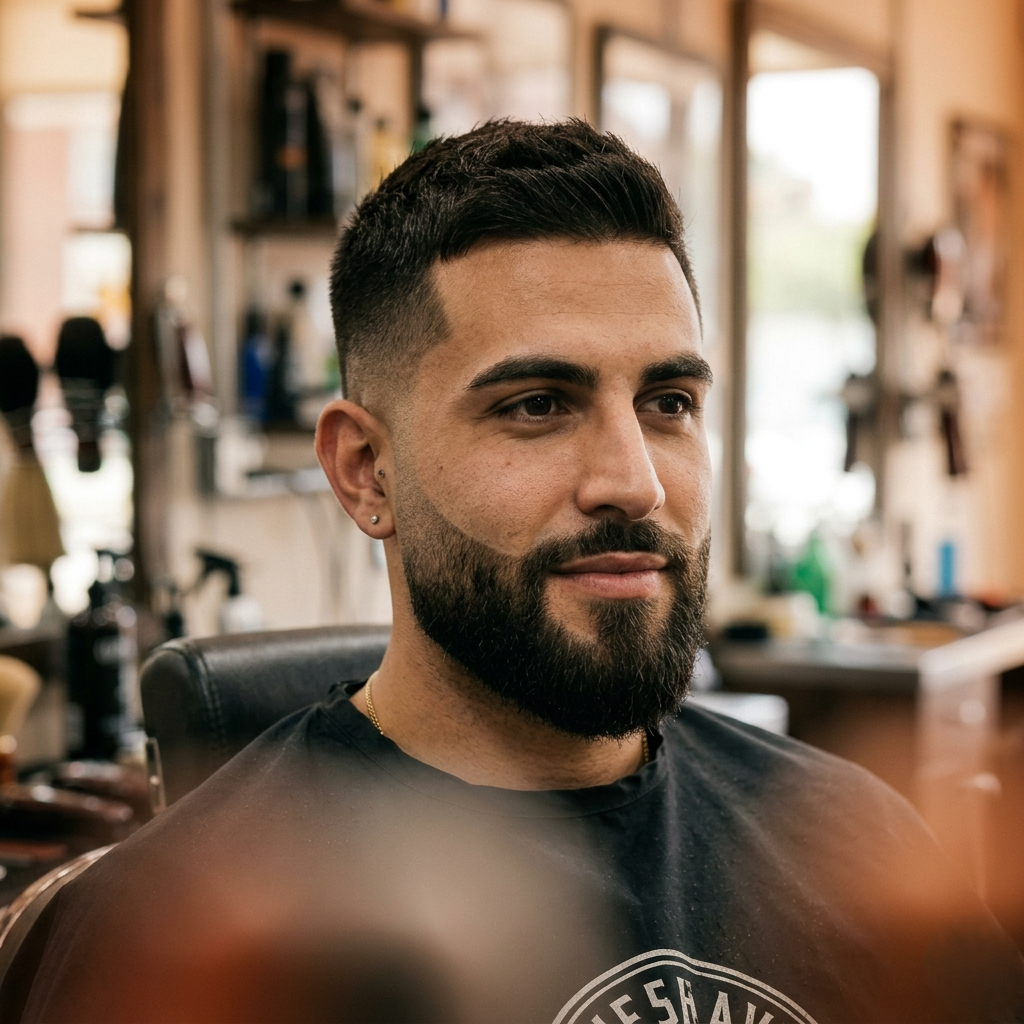
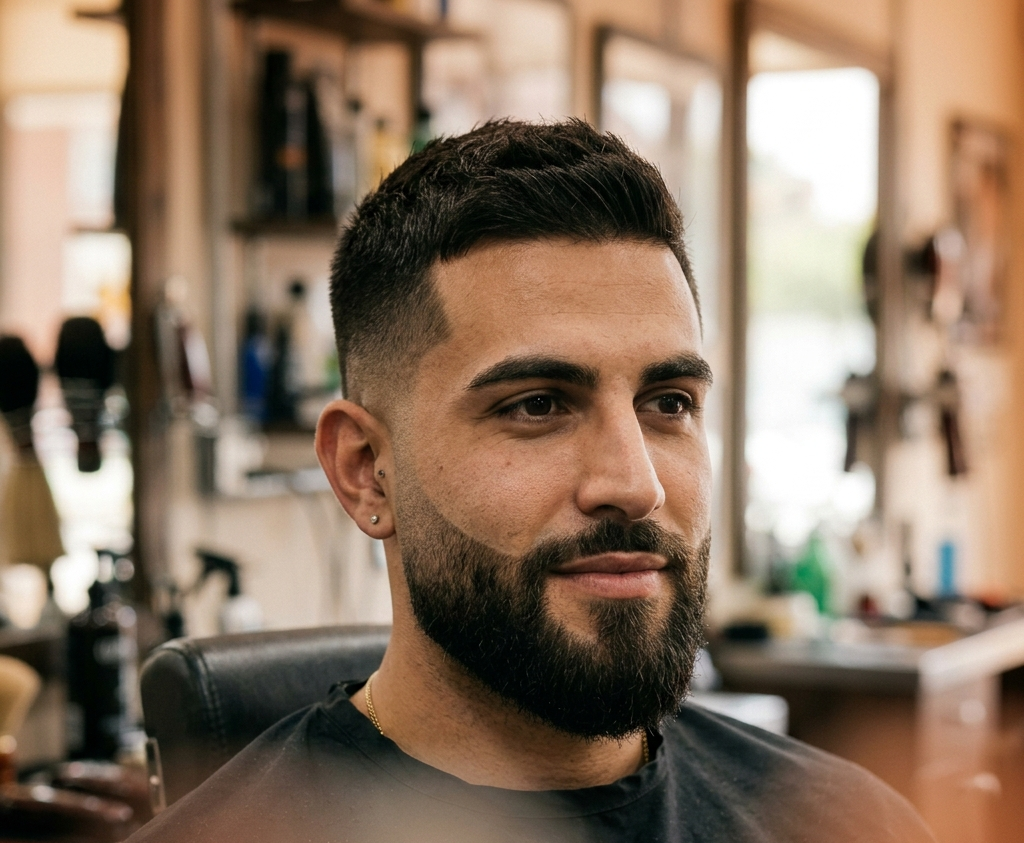
add images to the service slug pages

diff --git a/app/contact/page.tsx b/app/contact/page.tsx
@@ -1,5 +1,6 @@
 "use client"
 import { services } from '@/data/services'
+import { useSearchParams } from 'next/navigation'
 import React, { useState } from 'react'
 
 const page = () => {
@@ -30,12 +31,21 @@ const page = () => {
   }
 
 
+
+  const urlParams = useSearchParams()
+
+  const service = urlParams.get('service')
+
+
+
+
+
    const flexCenter= ' flex justify-center items-center  '
    const inputStyle = `${flexCenter} p-3 border-1 border-[gray] rounded-[5px] mb-[12.5px] `
 
   return (
     <div className= {`pt-[100px] h-[calc(100vh-150px)]  ${flexCenter} flex-col  `} >
-        <h1 className='text-[30px]' >Réservation</h1>
+        <h1 className='text-[30px]  tracking-wider' >Réservation</h1>
         <p className='mb-[50px] w-[350px] text-center ' >Réservez votre coupe en quelques clics et choisissez l’horaire qui vous convient</p>
         <form className= {`flex-col  flex w-[350px]  `} onSubmit={handleSubmit} >
 
@@ -49,7 +59,7 @@ const page = () => {
             <div className= {`flex`} >
 
                 {/* <label htmlFor="service">Service</label> */}
-                <select className= {`${inputStyle} w-[100%] mb-[10px] h-[50px]`}  name="service" id="service">
+                <select defaultValue={`${service}` || ""  } className= {`${inputStyle} w-[100%] mb-[10px] h-[50px]`}  name="service" id="service">
 
                   <option  value="">Choisir un service</option>
                   {services.map(service=>{

diff --git a/components/ServiceCard.tsx b/components/ServiceCard.tsx
@@ -5,12 +5,15 @@ import {type Service} from "../data/services"
 const ServiceCard = ({service} : {service : Service} ) => {
       const flexSpacing= ' flex justify-between items-center'
 
-      const containerStyle = `hover:shadow-sm transition-all duration-300 ease-in-out p-[25px] rounded-[5px] ${flexSpacing} w-[350px] h-[200px]   flex-col `
+      const containerStyle = `hover:shadow-lg  shadow-sm
+       transition-all duration-300 ease-in-out
+        p-[25px] rounded-[5px] ${flexSpacing} w-[350px] 
+        h-[200px]   flex-col `
 
   return (
-    <Link className= {` ${containerStyle} `} href={`/services/${service.slug}`} >
+    <Link className= {` ${containerStyle}  `} href={`/services/${service.slug}`} >
    
-        <h1 className= {`font-michroma border-b-2 pb-[15px] `} >{service.name} : {service.duration}min</h1>
+        <h1 className= {`font-michroma text-primary-dark   border-b-3 pb-[15px] border-primary-dark `} >{service.name} : {service.duration}min</h1>
         
         <h2 className= {` text-center `} >{service.description} </h2>
           

diff --git a/data/services.ts b/data/services.ts
@@ -19,7 +19,7 @@ export type Service = {
         price: 22,
         duration: 15,
         description: "Coupe à la tondeuse uniquement, une seule longueur.",
-        image : "/services/buzz1.jpg",
+        image : "/services/buzz1.PNG",
     },
     {
         id: "svc_002",
@@ -28,7 +28,7 @@ export type Service = {
         price: 28,
         duration: 30,
         description: "Notre spécialité. Dégradé à blanc, contours tracés au laser, finition produits.",
-        image : "/services/fade1.jpg",
+        image : "/services/fade1.PNG",
     },
     {
         id: "svc_003",
@@ -37,7 +37,7 @@ export type Service = {
         price: 45,
         duration: 60,
         description: "Coupe + Barbe + Shampoing massant.",
-        image : "/services/fullpack1.jpg",
+        image : "/services/fullpack1.PNG",
 
     },
     {
@@ -47,7 +47,7 @@ export type Service = {
         price: 15,
         duration: 15,
         description: "Taille et alignement de la barbe à la tondeuse.",
-        image : "/services/trim1.jpg",
+        image : "/services/trim1.PNG",
     }
 ];
 

diff --git a/app/services/[slug]/page.tsx b/app/services/[slug]/page.tsx
@@ -1,5 +1,6 @@
 import { services } from '@/data/services'
 import { ScissorsIcon } from '@heroicons/react/24/solid'
+import Link from 'next/link'
 import React from 'react'
 
 
@@ -39,7 +40,7 @@ const page = async ({params} : {params : Promise<{slug : string}>} ) => {
               
               <ScissorsIcon className='w-[25px] ' ></ScissorsIcon>
 
-              Reserver maintenant
+              <Link href={`/contact?service=${service.slug}`} >Reserver maintenant</Link>
             
             </button>
 
@@ -47,7 +48,7 @@ const page = async ({params} : {params : Promise<{slug : string}>} ) => {
 
       </div>
 
-      <div  className= {` bg-[white] w-[50vw] h-[100%]`} ></div>
+      <div style={{backgroundImage : `url(${service.image})` }}  className= {` bg-[white] w-[50vw] h-[100%] bg-cover bg-center`} ></div>
 
     </div>
 

diff --git a/app/services/page.tsx b/app/services/page.tsx
@@ -14,9 +14,9 @@ const page = () => {
       <div className= {``}  ></div>
         <div className= {`h-[calc(100vh-150px)] pt-[100px] flex-col ${flexCenter} gap-[100px]  `} >
 
-          <h2 className="text-[black] text-[30px]  " >NOS PRESTATIONS</h2>
+          <h2 className="text-[black] text-[30px]  tracking-wider " >NOS PRESTATIONS</h2>
 
-          <ul className= {`${flexCenter}`}  >
+          <ul className= {`${flexCenter} gap-[25px] `}  >
 
               {services.map((service)=>{
 